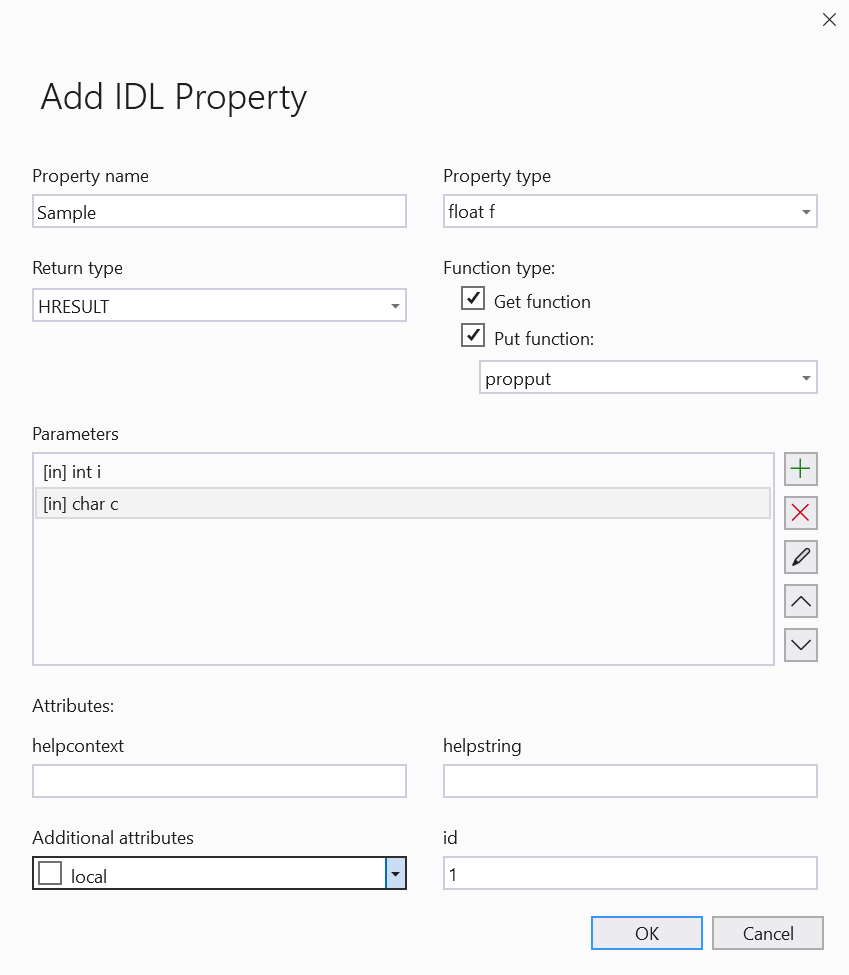
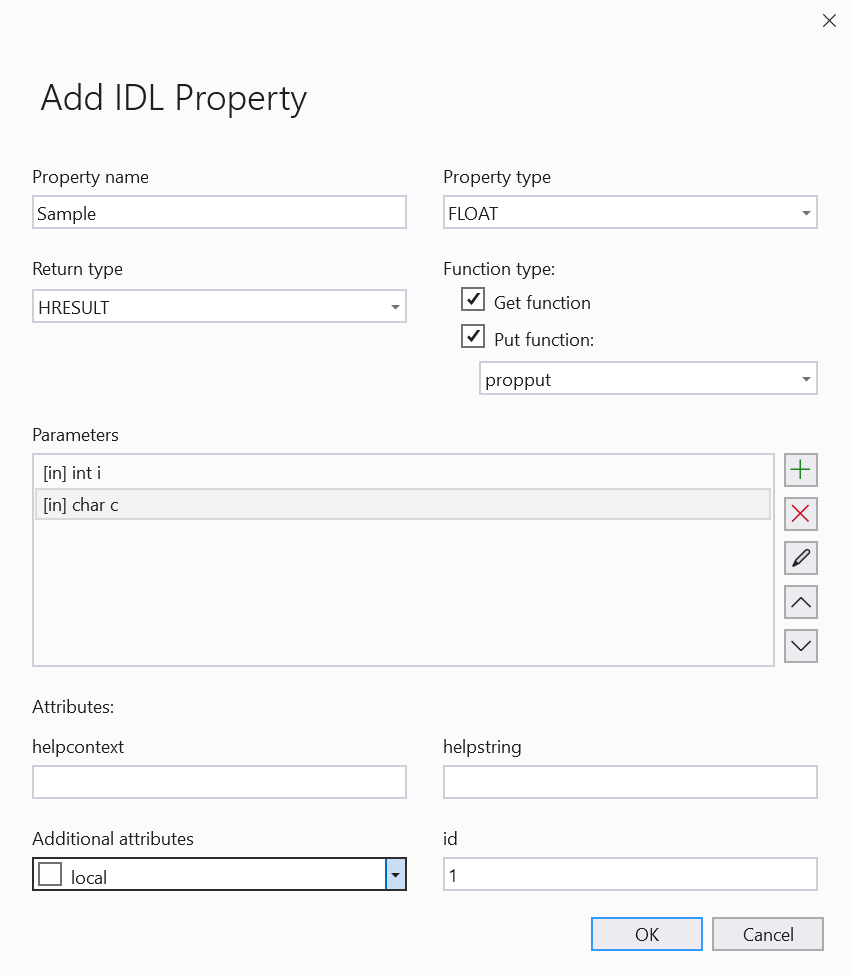
4/14/2022 AM Publish (#4219)
* Update open-wopen.md

Clarify that _O_TEMPORARY sets FILE_SHARE_DELETE.

* Update other pages that mention _O_TEMPORARY effects.

* New article - IDL method wizard

* update after review

* update after review

* Update after review

* Update after review

* Updating - Add property wizard for VS2022

* Updating broken links

* Update after review

* New article - Add an IDL Property

* link updation

* Update after review

* update after review

* update after review

* New article - IDL MFC property wizard

* Broken link fixed

* Broken link fixed

* Update virtual-functions.md

* update for links

* Updating links

* Address cpp-docs 3780 3782 3790 3791 3805

* Attempt correction of table format

* Add documentation for compiler error C2956 and update error text (#4176)

* Add documentation for compiler error C2956 and update error text

* Add TOC entry

* Update for grammar and my own comprehension.

Sometimes, you just get carried away. This version could use some simplification.

* Simplify.

Address remarks, attempt simplification.
Acrolinx all the things.

* More updates per review

* Address cpp-docs 3816

* Address non-blocking issues from 4207

* fix for sample program.

* edits

* edit pass. Move to ide location

* minor edit

* fix link

* Final update

* final update

* final update

* resolving blocking issue

* resolving blocking issue

* ToC update for new article

* ToC update

* link update
[…]

diff --git a/docs/ide/add-interface-definition-library-property-wizard.md b/docs/ide/add-interface-definition-library-property-wizard.md
@@ -1,18 +1,18 @@
 ---
 description: "Learn more about: Use a Microsoft Visual Studio wizard to add an IDL property to an IDL interface in your project"
 title: "Add an IDL property"
-ms.date: 04/11/2022
+ms.date: 04/14/2022
 f1_keywords: ["vc.codewiz.prop.overview", "vc.codewiz.prop.idlattributes"]
 helpviewer_keywords: ["interfaces, adding properties", "properties [C++], adding to interfaces", "names, add property wizard", "IDL attributes", "stock properties, about stock properties", "stock properties"]
 ms.custom: devdivchpfy22
 ---
 # Add an IDL property
 
-The **Add IDL Property** wizard adds a method to an interface defined in an Interface Definition Library (IDL). To use the **Add IDL Property** wizard, your project can't support MFC.
+The **Add IDL Property** wizard adds a property to an interface defined in an Interface Definition Library (IDL), such as in an ATL project that contains an `.idl` file. This wizard isn't available in projects that support MFC.
 
-For example, if you have an ATL project, and it has an `.idl` file in it, use the following procedure to add a property to an interface.
-
-This wizard differs from the **Add Property** wizard and **Add IDL MFC Property** wizard. The [Add Property](adding-a-property-visual-cpp.md) wizard adds a property to your project. The **Add IDL MFC Property** wizard is specific to MFC, ActiveX, or ATL projects that support MFC.
+This wizard differs from the [Add Property](adding-a-property-visual-cpp.md) wizard and [Add IDL MFC Property](../mfc/reference/add-interface-definition-library-mfc-property-wizard.md) wizard in the following ways:
+- The **Add Property** wizard adds a property to an interface in your project.
+- The **Add IDL MFC Property** wizard is specific to MFC, ActiveX, or ATL projects that support MFC.
 
 **To add an IDL property**
 
@@ -23,13 +23,15 @@ This wizard differs from the **Add Property** wizard and **Add IDL MFC Property*
    > [!NOTE]
    > You can also add properties to dispinterfaces, which, unless the project is attributed, are nested within the library node.
 
+1. Right-click the name of the interface.
+
 1. From the shortcut menu, select **Add** > **Add Property**.
 
 1. In the **Add IDL Property** wizard, provide the information to create the property.
 
 1. Select **OK** to add the property.
 
-The `Get` and `Put` methods of the property are displayed as two icons in **Class View**, under the interface where it's defined. You can double-click either icon to view the property declaration in the `.idl` file.
+The `Get` and `Put` methods of the property are displayed as two icons in **Class View** under the interface where it's defined. Double-click either icon to view the property declaration in the `.idl` file.
 
 For ATL interfaces, the `Get` and `Put` functions are added to the `.cpp` and `.h` files.
 
@@ -37,7 +39,7 @@ For ATL interfaces, the `Get` and `Put` functions are added to the `.cpp` and `.
 
 The following section describes the UI that you'll use to add an IDL property:
 
-:::image type="content" source="media/add-interface-definition-library-property-wizard.png" alt-text="Screenshot of adding IDL property to the interface.":::
+:::image type="content" source="media/add-interface-definition-library-property-wizard.png" alt-text="Screenshot of Add IDL Property with two parameters: [ in ] int i and [ in ] char c. Return type is HRESULT. Property type is float.":::
 
 - **Property name**
 
@@ -45,7 +47,7 @@ The following section describes the UI that you'll use to add an IDL property:
 
 - **Property type**
 
-  Sets whether your property will have a getter, setter, or both.
+  The data type of the property.
 
 - **Return type**
 
@@ -63,8 +65,8 @@ The following section describes the UI that you'll use to add an IDL property:
 
   |Option|Description|
   |------------|-----------------|
-  |**propput**|The [PropPut](../windows/attributes/propput.md) function returns a copy of the object. **propput** is the default and the most common way to make the property writable.|
-  |**propputref**|The [PropPutRef](../windows/attributes/propputref.md) function returns a reference to the object, rather than returning the copy of the object itself. Consider using **propputref** option for objects, such as large structs or arrays, that may have initialization overhead.|
+  |**`propput`**|The [`PropPut`](../windows/attributes/propput.md) function returns a copy of the object. **propput** is the default and the most common way to make the property writable.|
+  |**`propputref`**|The [`PropPutRef`](../windows/attributes/propputref.md) function returns a reference to the object, rather than returning the copy of the object itself. Consider using **`propputref`** option for objects, such as large structs or arrays, that may have initialization overhead.|
 
 - **Parameters**
 
@@ -89,15 +91,15 @@ The following section describes the UI that you'll use to add an IDL property:
 
 1. `helpcontext`
 
-    Specifies a context ID that lets the user view information about this property in the Help file. For more information, see [helpcontext](/windows/win32/Midl/helpcontext).
+    Specifies a context ID that lets the user view information about this property in the Help file. For more information, see [`helpcontext`](/windows/win32/Midl/helpcontext).
 
 1. `helpstring`
 
-    Specifies a character string that's used to describe the element to which it applies. By default, it's set to **`property`**&nbsp;*Property&nbsp;name*. For more information, see [helpstring](/windows/win32/Midl/helpstring).
+    Specifies a character string that's used to describe the element to which it applies. By default, it's set to **`property`**&nbsp;*Property&nbsp;name*. For more information, see [`helpstring`](/windows/win32/Midl/helpstring).
 
 1. `id`
 
-    Sets the numerical identifier that identifies the property. This option isn't available for properties of custom interfaces. For more information, see [id](/windows/win32/Midl/id).
+    Sets the numerical identifier that identifies the property. This option isn't available for properties of custom interfaces. For more information, see [`id`](/windows/win32/Midl/id).
 
 - **Additional attributes**
 
@@ -105,18 +107,19 @@ Keywords in the Microsoft Interface Definition Language (MIDL) are described in 
 
   |Option|Description|
   |------------|-----------------|
-  |`bindable`|Indicates that the property supports data binding. For more information, see [bindable](/windows/win32/Midl/bindable).|
+  |`bindable`|Indicates that the property supports data binding. For more information, see [`bindable`](/windows/win32/Midl/bindable).|
   |`defaultbind`|Indicates that this single, bindable property best represents the object. For more information, see [defaultbind](/windows/win32/Midl/defaultbind).|
-  |`defaultcollelem`|Indicates that the property is an accessor function for an element of the default collection. For more information, see [defaultcollelem](/windows/win32/Midl/defaultcollelem).|
-  |`displaybind`|Indicates that this property should be displayed to the user as bindable. For more information, see [displaybind](/windows/win32/Midl/displaybind).|
-  |`hidden`|Indicates that the property exists but shouldn't be displayed in a user-oriented browser. For more information, see [hidden](/windows/win32/Midl/hidden).|
-  |`immediatebind`|Indicates that the database will be notified immediately of all changes to this property of a data-bound object. For more information, see [immediatebind](/windows/win32/Midl/immediatebind).|
-  |`local`|Specifies to the MIDL compiler that the property isn't remote. For more information, see [local](/windows/win32/Midl/local).|
-  |`nonbrowsable`|Tags an interface or dispinterface member that shouldn't be displayed in a properties browser. For more information, see [nonbrowsable](/windows/win32/Midl/nonbrowsable).|
-  |`requestedit`|Indicates that the property supports the `OnRequestEdit` notification. For more information, see [requestedit](/windows/win32/Midl/requestedit).|
-  |`restricted`|Specifies that the property can't be called arbitrarily. For more information, see [restricted](/windows/win32/Midl/restricted).|
-  |`source`|Indicates that a member of the property is a source of events. For more information, see [source](/windows/win32/Midl/source).|
+  |`defaultcollelem`|Indicates that the property is an accessor function for an element of the default collection. For more information, see [`defaultcollelem`](/windows/win32/Midl/defaultcollelem).|
+  |`displaybind`|Indicates that this property should be displayed to the user as bindable. For more information, see [`displaybind`](/windows/win32/Midl/displaybind).|
+  |`hidden`|Indicates that the property exists but shouldn't be displayed in a user-oriented browser. For more information, see [`hidden`](/windows/win32/Midl/hidden).|
+  |`immediatebind`|Indicates that the database will be notified immediately of all changes to this property of a data-bound object. For more information, see [`immediatebind`](/windows/win32/Midl/immediatebind).|
+  |`local`|Specifies to the MIDL compiler that the property isn't remote. For more information, see [`local`](/windows/win32/Midl/local).|
+  |`nonbrowsable`|Tags an interface or dispinterface member that shouldn't be displayed in a properties browser. For more information, see [`nonbrowsable`](/windows/win32/Midl/nonbrowsable).|
+  |`requestedit`|Indicates that the property supports the `OnRequestEdit` notification. For more information, see [`requestedit`](/windows/win32/Midl/requestedit).|
+  |`restricted`|Specifies that the property can't be called arbitrarily. For more information, see [`restricted`](/windows/win32/Midl/restricted).|
+  |`source`|Indicates that a member of the property is a source of events. For more information, see [`source`](/windows/win32/Midl/source).|
 
 ## **See also**
 
-[Add Property](adding-a-property-visual-cpp.md)
+[Add Property](adding-a-property-visual-cpp.md)\
+[Add IDL MFC Property](../mfc/reference/add-interface-definition-library-mfc-property-wizard.md)

diff --git a/docs/mfc/reference/add-interface-definition-library-mfc-property-wizard.md b/docs/mfc/reference/add-interface-definition-library-mfc-property-wizard.md
@@ -1,0 +1,174 @@
+---
+description: "Learn more about: Use the Microsoft Visual Studio Add IDL MFC property wizard to add a property to an IDL interface in your MFC or ATL project"
+title: "Add an IDL MFC property"
+ms.date: "04/14/2022"
+f1_keywords: ["vc.codewiz.prop.overview"]
+helpviewer_keywords: ["interfaces, adding properties", "properties [C++], adding to interfaces", "names, add property wizard", "add property wizard", "stock properties, about stock properties", "stock properties"]
+ms.custom: devdivchpfy22
+---
+
+# Add an IDL MFC property
+
+The **Add IDL MFC Property** wizard adds a property to an Interface Definition Library (IDL) interface defined in your Microsoft Framework Class (MFC) project.
+
+To use this wizard, you must be in an MFC Project, ActiveX project, or an ATL project that supports MFC. For example, if you have a Microsoft ActiveX control project, you can use the following procedure to add a property to an IDL interface in the solution.
+
+## Add an IDL MFC property to your interface
+
+1. On the **View** menu, select **Class View**.
+
+1. In the [Class View](/visualstudio/ide/viewing-the-structure-of-code) pane, right-click the name of the interface to which you want to add the property.
+
+   > [!NOTE]
+   > You can also add properties to dispinterfaces, which, unless the project is attributed, are nested within the library node.
+
+1. From the shortcut menu, choose **Add** > **Add Property**.
+
+1. In the **Add IDL MFC property** wizard, provide the information to create the property.
+
+1. Select **OK** to add the property.
+
+For MFC dispinterfaces:
+
+- If you select **Member variable** as the implementation type, a method and a variable are added to the class that implements it.
+- If you select **Get/Set methods** as the implementation type, two methods are added to the class that implements it.
+
+## User interface element list
+
+The following section describes the **Add IDL MFC Property** wizard:
+
+:::image type="content" source="../reference/media/add-interface-definition-library-mfc-property-wizard.png" alt-text="Screenshot of Add IDL MFC Property with two parameters: int i and char c. Property type is OLE_COLOR.":::
+
+- **Property name**
+
+  Sets the name of the property.
+
+  For MFC dispinterfaces associated with ActiveX controls, you can supply your own name or you can select a stock property name from the predefined list. If you provide your own property name, the **Stock** implementation type is unavailable.
+
+  For more information about a description of the stock properties in the list, see [stock properties](#stock-properties).
+
+  |Interface type|Property name options|
+  |--------------------|-----------------|
+  |ATL dual interface, custom interface, and local custom interface|Provide a property name.|
+  |MFC dispinterface, MFC ActiveX control dispinterface|Provide a property name or select a stock property from the list.<br /><br />If you select a property from the list, the appropriate value appears in the **Property type** box. You can change this type, depending on the **Implementation type** selection.|
+
+- **Property type**
+
+  Sets the type of property you're adding.
+
+  For MFC dispinterfaces, provide your own type or select from the predefined list. If you provide a stock implementation of a property, **Property type** is the stock type and can't be changed.
+
+- **Variable name**
+
+  Sets the name of the member variable with which the property is associated.
+
+  By default, the variable name is `m_`*PropertyName*. You can edit this name.
+
+  This field is only visible for MFC dispinterfaces and if you specify **Member variable** under **Implementation type**.
+
+- **Notification function**
+
+  Sets the name of the notification function called if the property changes.
+
+  By default, the name of the notification function is `On`*PropertyName*`Changed`. You can edit this name.
+
+  This field is only visible for MFC dispinterfaces and if you specify **Member variable** under **Implementation type**.
+
+- **Get function**
+
+  Sets the name of the function to get the property.
+
+  By default, the name of the `Get` function is `Get`*PropertyName*. You can edit this name.
+
+  If you delete the name, the function [GetNotSupported](../../mfc/reference/colecontrol-class.md#getnotsupported) is inserted into the interface dispatch map.
+
+  This field is only visible for MFC dispinterfaces and if you specify **Get/Set methods** under **Implementation type**.
+
+- **Set function**
+
+  Sets the name of the function to set the property.
+
+  By default, the name of the `Set` function is `Set`*PropertyName*. You can edit this name.
+
+  If you delete the name, the function [SetNotSupported](../../mfc/reference/colecontrol-class.md#setnotsupported) is inserted into the interface dispatch map.
+
+  This field is only visible for MFC dispinterfaces and if you specify **Get/Set methods** under **Implementation type**.
+
+- **Implementation type**
+
+  Specifies how to implement the property you're adding.
+
+  Only available for MFC dispinterfaces.
+
+  |Implementation type|Description|
+  |-------------------------|-----------------|
+  |**Stock**|Specifies a default implementation for the property selected in **Property name**. For more information, see [stock properties](#stock-properties).<br /> If you specify **Stock**, then **Property type**, **Parameter type**, and **Parameter name** are dimmed.|
+  |**Member variable**|Adds the property as a member variable.<br />You can add custom properties or most stock properties as member variables.<br />Provides default names under **Variable name** and **Notification function**. You can edit this name.<br />You can't specify **Member variable** for the `Caption`, `hWnd`, or `Text` properties.|
+  |**Get/Set methods**|Specifies the property is added as `Get`*PropertyName* and `Set`*PropertyName* functions by default. These names appear under **Get function** and **Set function**.<br />You can change the default **Property type**, which passes a value for the Get function.<br/>You can specify parameters for the `Get` and `Set` functions.|
+
+- **Default property**
+
+  Sets the property as the default for the interface.
+
+  An interface can have only one default property.
+
+  Once you specify the default property, this checkbox is unavailable for any other properties that you add to the interface.
+  Only available for an MFC dispinterface.
+
+- **Parameters**
+
+  Displays the method's parameters and its types.
+
+- **+**
+
+  Adds a parameter. In **Parameters**, type the parameter type and name and choose **OK**. For example, `int x`
+
+- **x**
+
+  Removes the selected parameter from the **Parameters** list.
+
+- **Pencil icon**
+
+  Edits the selected parameter.
+
+- **id**
+
+  Sets the numerical ID that identifies the property.
+
+  This option isn't available for properties of custom interfaces.
+  For more information, see [`id`](/windows/win32/Midl/id) in the *MIDL Reference*.
+
+- **helpcontext**
+
+  Specifies a context ID that lets the user view information about this property in the Help file.
+
+  For more information, see [`helpcontext`](/windows/win32/Midl/helpcontext) in the *MIDL Reference*.
+
+- **helpstring**
+
+  Specifies a character string that's used to describe the element to which it applies. By default, it's **`property`**&nbsp;*Property&nbsp;name*.
+
+  For more information, see [`helpstring`](/windows/win32/Midl/helpstring) in the *MIDL Reference*.
+
+### Stock properties
+
+If you're adding a property to an MFC dispinterface, you can choose one of the following stock properties from the **Property name** dropdown list:
+
+|Property name|Description|
+|-------------------|-----------------|
+|`Appearance`|Returns or sets a value that determines the appearance of the control.<br/>The control's `Appearance` property can include or omit three-dimensional display effects. This property is an ambient read/write property.|
+|`BackColor`|Returns or sets the control's ambient `BackColor` property to either a palette (RGB) color or a predefined system color.<br/>By default, its value corresponds to the foreground color of the control's container.<br/>This property is an ambient read/write property.|
+|`BorderStyle`|Returns or sets the border style for a control.<br/>This property is a read/write property.|
+|`Caption`|Returns or sets the control's `Caption` property.<br/>The caption is the title of the window. `Caption` has no **Member variable** implementation type.|
+|`Enabled`|Returns or sets the control's `Enabled` property.<br/>An enabled control can respond to user-generated events.|
+|`Font`|Returns or sets the control's ambient font.<br/>`Null` if the control has no font.|
+|`ForeColor`|Returns or sets the control's ambient `ForeColor` property.|
+|`hWnd`|Returns or sets the control's `hWnd` property.<br/>Has no **Member variable** implementation type.|
+|`ReadyState`|Returns or sets the control's `ReadyState` property.<br/>A control can be uninitialized, initialized, loading, interactive, or complete.<br/>For more information, see [READYSTATE](/previous-versions/aa768362\(v=vs.85\)) in the *Internet SDK*.|
+|`Text`|Returns or sets the text contained in a control.<br/>Has no **Member variable** implementation type.|
+
+## See Also
+
+[Add Property](../../ide/adding-a-property-visual-cpp.md)
+
+[Add IDL Property](../../ide/add-interface-definition-library-property-wizard.md)

diff --git a/docs/ide/adding-a-property-visual-cpp.md b/docs/ide/adding-a-property-visual-cpp.md
@@ -1,7 +1,7 @@
 ---
 description: "Learn more about: Add a property to an interface in a Microsoft Visual Studio C++ project"
 title: "Add a property"
-ms.date: 04/11/2022
+ms.date: 04/12/2022
 f1_keywords: ["vc.codewiz.prop.overview"]
 helpviewer_keywords: ["interfaces, adding properties", "properties [C++], adding to interfaces", "names, add property wizard", "add property wizard", "stock properties, about stock properties", "stock properties"]
 ms.custom: devdivchpfy22
@@ -9,11 +9,11 @@ ms.custom: devdivchpfy22
 
 # Add a property
 
-Use the [Add Property wizard](#add-property-wizard) to add a method to an interface in your project.
+Use the [Add Property wizard](#add-property-wizard) to add a property to an interface in your project.
 
 **To add a property to your interface:**
 
-1. From the Visual Studio main menu, select **View** > **Class view**. In the [Class View](/visualstudio/ide/viewing-the-structure-of-code) pane, expand the project node to display the interface you want to add the method to.
+1. From the Visual Studio main menu, select **View** > **Class view**. In the [Class View](/visualstudio/ide/viewing-the-structure-of-code) pane, expand the project node to display the interface you want to add the property to.
 
    > [!NOTE]
    > You can also add properties to dispinterfaces, which, unless the project is attributed, are nested within the library node.
@@ -51,3 +51,9 @@ The following section describes the UI that you'll use to add a property:
   Select to add a property setter. By default, the name of the `Set` function is `Set`*PropertyName*. You can edit this name. If you delete the name, the function [`SetNotSupported`](../mfc/reference/colecontrol-class.md#setnotsupported) is inserted into the interface dispatch map. The `Set`*PropertyName* function specifies that the property is writable.
 
   For ATL interfaces **Put function** makes the property writable; that is, it creates the `Put` method for setting, or "putting," this property of the object. Select **Get**, **Put**, or both.
+
+## See Also
+
+[Add IDL Property](add-interface-definition-library-property-wizard.md)
+
+[Add IDL MFC Property](../mfc/reference/add-interface-definition-library-mfc-property-wizard.md)
